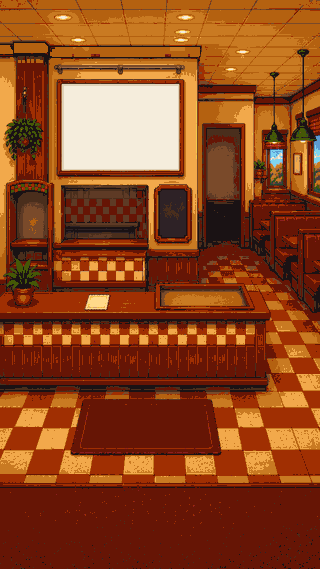
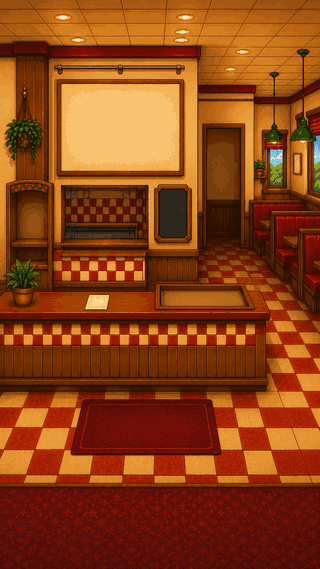
Photograph all three states, not two
A before/after pair would let a reader conclude the four-colour pass had
simply been too timid. It was not: it halved the error and left a room
still visibly orange at phone size, which is a different claim and the
one worth making. The middle column is the argument.

Tony's face joins the set as its own crop, because the ruling makes him
the named fidelity reference rather than a geometry task.

Claude-Session: https://claude.ai/code/session_01EnynxfsReuUh9CT9gyo1U3

diff --git a/docs/evidence/palette-fidelity/README.md b/docs/evidence/palette-fidelity/README.md
@@ -1,90 +1,86 @@
-# Homepage art fidelity — before and after
+# Homepage art fidelity — three states of the same room
 
-The commissioner's report was *"much of the homepage art now has distorted
-coloring and shading."* The cause is **palette quantization**, not the source
-art, and these are the pictures that show it.
+The commissioner reported twice. First that *"much of the homepage art now has
+distorted coloring and shading"*, then — after the first fix — that *"the entire
+homepage, including Tony, does not preserve the visual quality of the original
+approved art."* Both were right, and these are the pictures that show why the
+first answer was not enough.
 
-`before` is the shipped asset at `4a36244`; `after` is the same asset at `HEAD`.
-Both are read out of git, never off disk, so the pair cannot drift with a working
-tree. Regenerate with:
+**Three columns, not two.** A before/after pair would let a reader conclude the
+first attempt had simply been too timid. The middle column is what shows that
+*more of the same* was not the answer.
 
-```bash
-npx tsx scripts/palette-evidence.mts
-```
-
-Enlargements are **nearest-neighbour**. Smoothing them would blur the one thing
-being compared — which colour each pixel snapped to.
-
-Every claim below is a colour count on the rectangle named, not an impression of
-the picture. Where the two would disagree, the count wins — see *"the light tiles
-never changed"*.
-
-| File | Rectangle | What changed |
+| suffix | state | shell mean error¹ |
 |---|---|---|
-| `shell-whole-before.png` / `-after.png` | the whole shell, **1:1** (320 × 569) | The room read as though lit by sodium light. Its three largest colours were `wood-dark` 25.9%, `red-dark` 22.4% and `amber-deep` 18.1% — one brown, one crimson and one gold doing the work of walls, ceiling, floor, furniture and counter between them. They are now `zone-ember` 35.8%, `zone-brick` 14.7% and `zone-ochre` 11.2%, three warm neighbours, and the materials separate. |
-| `ceiling-before.png` / `-after.png` | x 40–240, y 0–70, **4×** | **68% of the ceiling was a single colour** — `amber-deep` — with the tile grid rendered as dark scratches over it and `red-dark` at 7% making the scorch. It is `zone-ochre` 47.4% and `amber-deep` 36.0% now: **two tile tones**, which is what the ceiling actually is, with a clean one-unit grid between them and the recessed lights reading as lights. The scorch cleanup of visual debt 9 survives, and had to be re-derived to do so (`PALETTE_FIDELITY_BOUNDARY.md §7a`). |
-| `wall-behind-tony-before.png` / `-after.png` | the oven alcove, x 50–160, y 165–265, **4×** | A single brown checker at roughly Tony's own value — `wood-dark` 30.3% with **`skin-4` at 17.0%**, a *skin* colour holding up a wall. The backsplash is `zone-ember` inside a `wood-dark` frame now, so the recess reads as a recess and `skin-4` drops to 13.2%. |
-| `floor-before.png` / `-after.png` | the foreground band, x 40–240, y 460–560, **4×** | A dense red-on-brown mottle across the whole bottom of the screen — the *"muddy"* in the report — now flat deep red with sparse speckle. **The light tiles never changed:** `amber-mid` is 14.5% of the band before *and* after. What changed is the dark half, which was `red-dark` 47.5% *and* `wood-dark` 21.4% — crimson and brown rendering one tile — and is now `zone-ember` 51.9% and `zone-brick` 24.0%, two values of one material. The tiles read cleaner because what surrounds them stopped being two unrelated hues, not because any cream was added. |
-| `booths-before.png` / `-after.png` | x 180–320, y 260–380, **4×** | The same substitution further back: `red-dark` 33.6%, `wood-dark` 22.6% and `skin-4` 9.1% become `zone-ember` 40.4%, `zone-brick` 24.9% and `zone-ochre` 9.7%. The counter's vertical boards stop being red streaks and show grain. |
-| `counter-front-before.png` / `-after.png` | `zone_counter_front.png`, whole, **2×** | The `/counter` backdrop — the same defect on a second asset, and the largest error improvement of any: **36.4 → 20.1**. Heavy stipple across the checker, potted plant brown; clean now, plant green. |
+| `-before` | the shared 32 (`4a36244`) | 35.0 |
+| `-plus4` | the shared 32 + four `zone` colours (`b4815a1`) | 21.6 |
+| `-after` | each painterly family quantized against **its own** palette | **5.9** |
 
-## The numbers behind the pictures
+¹ against the approved source, out of a possible 441.
 
-`npx tsx scripts/palette-report.mts`, measured on the **incoming source art** and
-quantized the way production quantizes it:
+All three are read out of git rather than off disk, so the comparison cannot
+drift with a working tree. Regenerate with `npx tsx scripts/palette-evidence.mts`.
+Enlargements are **nearest-neighbour** — smoothing them would blur the one thing
+being compared.
 
-| asset | family | mean error | isolated px | `paper` share | `amber` share |
-|---|---|---|---|---|---|
-| shell | `zone` | 35.0 → **21.6** | 2.30% → 2.23% | 0.1% | 27.3% → **20.7%** |
-| counter-front | `zone` | 36.4 → **20.1** | 2.49% → 2.86% | 0.0% | 14.1% → 12.8% |
-| newspaper-rack | `zone` | 28.4 → **23.1** | 15.27% → 16.39% | 10.4% | 1.5% → 0.2% |
-| tony | `character` | 30.3 → 30.3 | 11.06% → 11.06% | 25.4% | 10.1% |
-| neon-sign, signed-jersey, burn-barrel | `collectible` | unchanged | unchanged | unchanged | unchanged |
+## The files
 
-The bottom two rows are the point of the scoping decision: **only `zone` changes.**
-Tony and all twelve approved Batch B collectibles are byte-identical, because the
-extension is additive and never replaces a shared colour.
+| file | rectangle | scale |
+|---|---|---|
+| `shell-whole-*` | the whole shell | 1:1 (320 × 569) |
+| `tony-whole-*` | Tony, whole | 2× |
+| `tony-face-*` | his face — the ruling's named fidelity reference | 6× |
+| `ceiling-*` | x 40–240, y 0–70 | 4× |
+| `wall-behind-tony-*` | the oven alcove, x 50–160, y 165–265 | 4× |
+| `floor-*` | the foreground band, x 40–240, y 460–560 | 4× |
+| `booths-*` | x 180–320, y 260–380 | 4× |
+| `counter-front-*` | `zone_counter_front.png`, whole | 2× |
 
-### There are two ways to count a ramp's share, and they answer different questions
+## What to look for
 
-The table above **quantizes the source** and reports where each source pixel
-*would land*. Counting the colours in the **finished PNG** instead gives a
-different and equally true set of numbers, and the two have been mixed up once
-already:
+- **The ceiling** is the clearest of the eight. Under the shared 32 it is **68% a
+  single colour** with the tile grid broken into dashes over it. Under +4 it is
+  two tones and still orange. Now it is a calm shaded surface with continuous
+  grout lines and the downlights reading as light.
+- **Tony's face** is the ruling's reference. His skin was landing on the shared
+  palette's muddy tans because nothing in it is his yellow-orange. It is the
+  source's warm yellow again, his shading is contiguous, and the jersey is a
+  clean blue rather than a near-black navy.
+- **The floor** is the one where appearance and arithmetic disagree, and it is
+  worth knowing before reading the picture: its **light tiles never changed** —
+  `amber-mid` is 14.5% of the band in every column. What changed is the dark
+  half, which was crimson `red-dark` *and* brown `wood-dark` rendering one tile.
+  The tiles read cleaner because their surround stopped being two unrelated hues.
 
-| the shipped shell | `paper` | `amber` | `wood` | `red` | the four new |
-|---|---|---|---|---|---|
-| before | 5.6% | 24.8% | 31.5% | 24.6% | — |
-| after | 5.6% | 16.8% | 6.4% | 0.2% | **62.3%** |
+## The numbers
 
-Two things fall out of it.
+Measured on the shipped shell:
 
-**The room's only cream was painted on, not chosen.** The `paper` share of the
-finished asset is 5.6% before *and* after, while the quantizer routes 0.1% of the
-source there either way. The difference is `clean-parlor-surfaces.ts`, which
-paints the Tonight board's face flat `paper-white` after quantization — so every
-cream pixel in the old room was a repair script's, and none of it was the palette
-reaching the walls. That is the coverage gap, stated from the other side.
+| | shared 32 | +4 | **after** |
+|---|---|---|---|
+| mean quantization error | 35.0 | 21.6 | **5.9** |
+| `amber` (lamp-glow) share | 27.3% | 20.7% | **0.9%** |
+| busiest single colour | 35.8% | 35.8% | **4.2%** |
+| distinct colours in the asset | 26 | 30 | **90** |
+| file size | 19 KB | 19 KB | 60 KB |
 
-**`wood` and `red` collapse, and that is the defect leaving.** 31.5% → 6.4% and
-24.6% → 0.2% look alarming until you read the error census: `#670d07`, `#681306`
-and `#580d07` are deep booth red and were landing on `wood-dark #4A2E1C` at a mean
-distance of 42–47. They now land on `zone-ember #661505`. The pixels moved to a
-**nearer, warmer** colour, which is why the mean error falls with them.
+Tony's mean error goes **30.3 → 14.5**.
 
-Both assets are **palette-closed before and after** — zero off-palette pixels —
-and the dimensions and alpha are unchanged.
+**Only the two painterly families change.** Seven files in total: six `zone`
+assets and Tony. All twelve approved Batch B collectibles are byte-identical,
+because a family extension is additive and never replaces a shared colour.
 
-**Two things these numbers do not say**, and the boundary document says both at
-length:
+## Two things these numbers do not say
 
-- **Isolated pixels do not improve.** The shell's barely moves and two assets get
-  slightly worse. More colours mean more decision boundaries. The *"fewer isolated
-  noisy pixels"* in the acceptance criteria is a different mechanism and is
-  recorded as open.
-- **Tony is not fixed by this and this does not claim he is.** He is the control
-  case: his coverage was already fine, and his 11.06% isolated rate is untouched
-  because his family is not extended.
+- **The isolated-pixel rate got worse and that is not a regression.** The shell's
+  went 2.23% → 13.46% while the picture became far more faithful. The metric
+  counts pixels differing from all four neighbours, which on an honestly rendered
+  gradient is most of them — so it rewards flat posterized fields. The ruling
+  says as much: *"do not rely only on… isolated-pixel rate"*.
+- **This is not the whole page.** `docs/evidence/homepage-fidelity/` has the
+  composition at 390 / 375 / 360, before and after, which is what the ruling asks
+  to be judged. A crop of the ceiling cannot answer whether Tony belongs in the
+  room he is standing in.
 
-The reasoning, the choice of the four colours, the scoping decision and the three
-defects the re-derivation exposed: `docs/PALETTE_FIDELITY_BOUNDARY.md`.
+The reasoning, the four architectures that were measured, and the repair script
+this made unnecessary: `docs/PALETTE_FIDELITY_BOUNDARY.md`.
